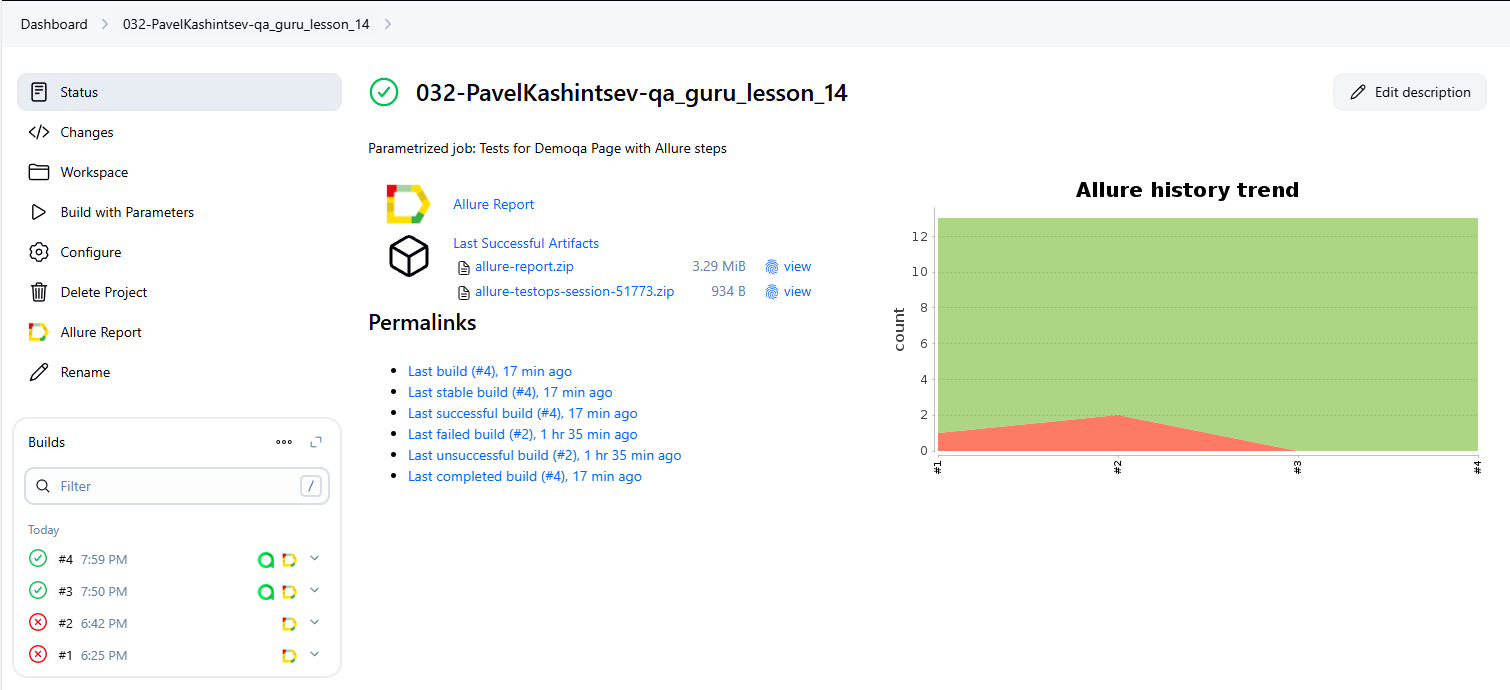
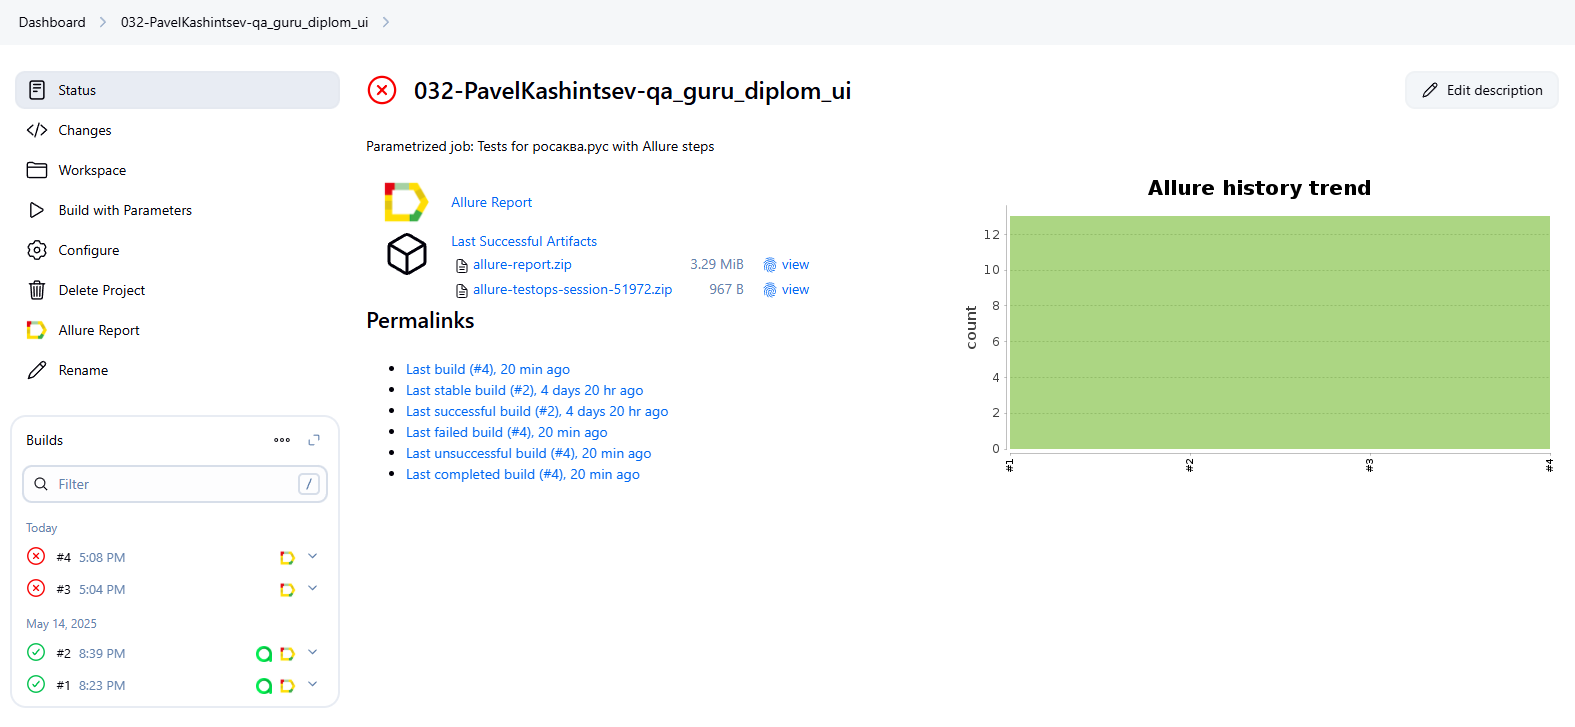
fix README.md

diff --git a/README.md b/README.md
@@ -56,10 +56,10 @@ ____
 
 ____
 <a id="jenkins"></a>
-## <img alt="Jenkins" height="25" src="images/logo/Jenkins.svg" width="25"/></a><a name="Сборка"></a>Сборка в [Jenkins](https://jenkins.autotests.cloud/job/032-PavelKashintsev-qa_guru_lesson_14/)</a>
+## <img alt="Jenkins" height="25" src="images/logo/Jenkins.svg" width="25"/></a><a name="Сборка"></a>Сборка в [Jenkins](https://jenkins.autotests.cloud/job/032-PavelKashintsev-qa_guru_diplom_ui/)</a>
 ____
 <p align="center"> 
-<a href="https://jenkins.autotests.cloud/job/032-PavelKashintsev-qa_guru_lesson_14/"><img src="images/screen/jenkins_build.png" alt="Jenkins" width="950"/></a> 
+<a href="https://jenkins.autotests.cloud/job/032-PavelKashintsev-qa_guru_diplom_ui/"><img src="images/screen/jenkins_build.png" alt="Jenkins" width="950"/></a> 
 </p>
 
 
@@ -89,7 +89,7 @@ gradle clean test "-Denv=remote"
 ```
 ___
 <a id="allure"></a>
-## <img alt="Allure" height="25" src="images/logo/Allure.svg" width="25"/></a> <a name="Allure"></a>Allure [отчет](https://jenkins.autotests.cloud/job/032-PavelKashintsev-qa_guru_lesson_14/allure/)</a>
+## <img alt="Allure" height="25" src="images/logo/Allure.svg" width="25"/></a> <a name="Allure"></a>Allure [отчет](https://jenkins.autotests.cloud/job/032-PavelKashintsev-qa_guru_diplom_ui/allure/)</a>
 ___
 
 ### *Основная страница отчёта*
@@ -114,7 +114,7 @@ ___
 
 ___
 <a id="allure-testops"></a>
-## <img alt="Allure" height="25" src="images/logo/Allure2.svg" width="25"/></a>Интеграция с <a target="_blank" href="https://allure.autotests.cloud/project/4739/dashboards">Allure TestOps</a>
+## <img alt="Allure" height="25" src="images/logo/Allure2.svg" width="25"/></a>Интеграция с <a target="_blank" href="https://allure.autotests.cloud/project/4759/dashboards">Allure TestOps</a>
 ____
 ### *Allure TestOps Dashboard*
 
@@ -130,7 +130,7 @@ ____
 
 ___
 <a id="jira"></a>
-## <img alt="Allure" height="25" src="images/logo/Jira.svg" width="25"/></a> Интеграция с <a target="_blank" href="https://jira.autotests.cloud/browse/HOMEWORK-1445">Jira</a>
+## <img alt="Allure" height="25" src="images/logo/Jira.svg" width="25"/></a> Интеграция с <a target="_blank" href="https://jira.autotests.cloud/browse/HOMEWORK-1451">Jira</a>
 ____
 <p align="center"> 
 <img title="Jira" src="images/screen/jira.png" width="850"> 
